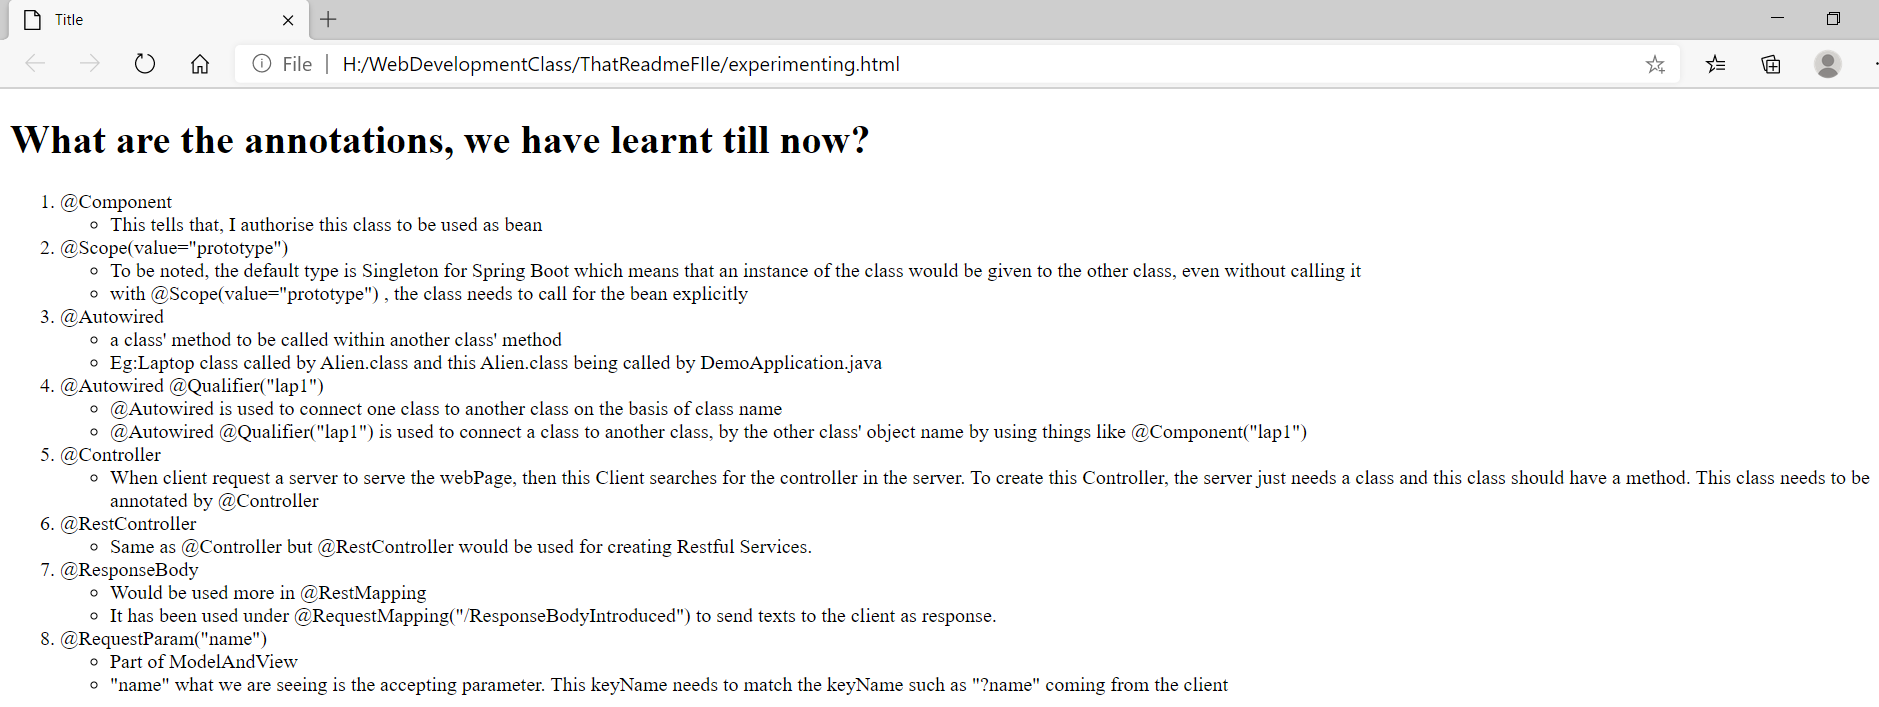
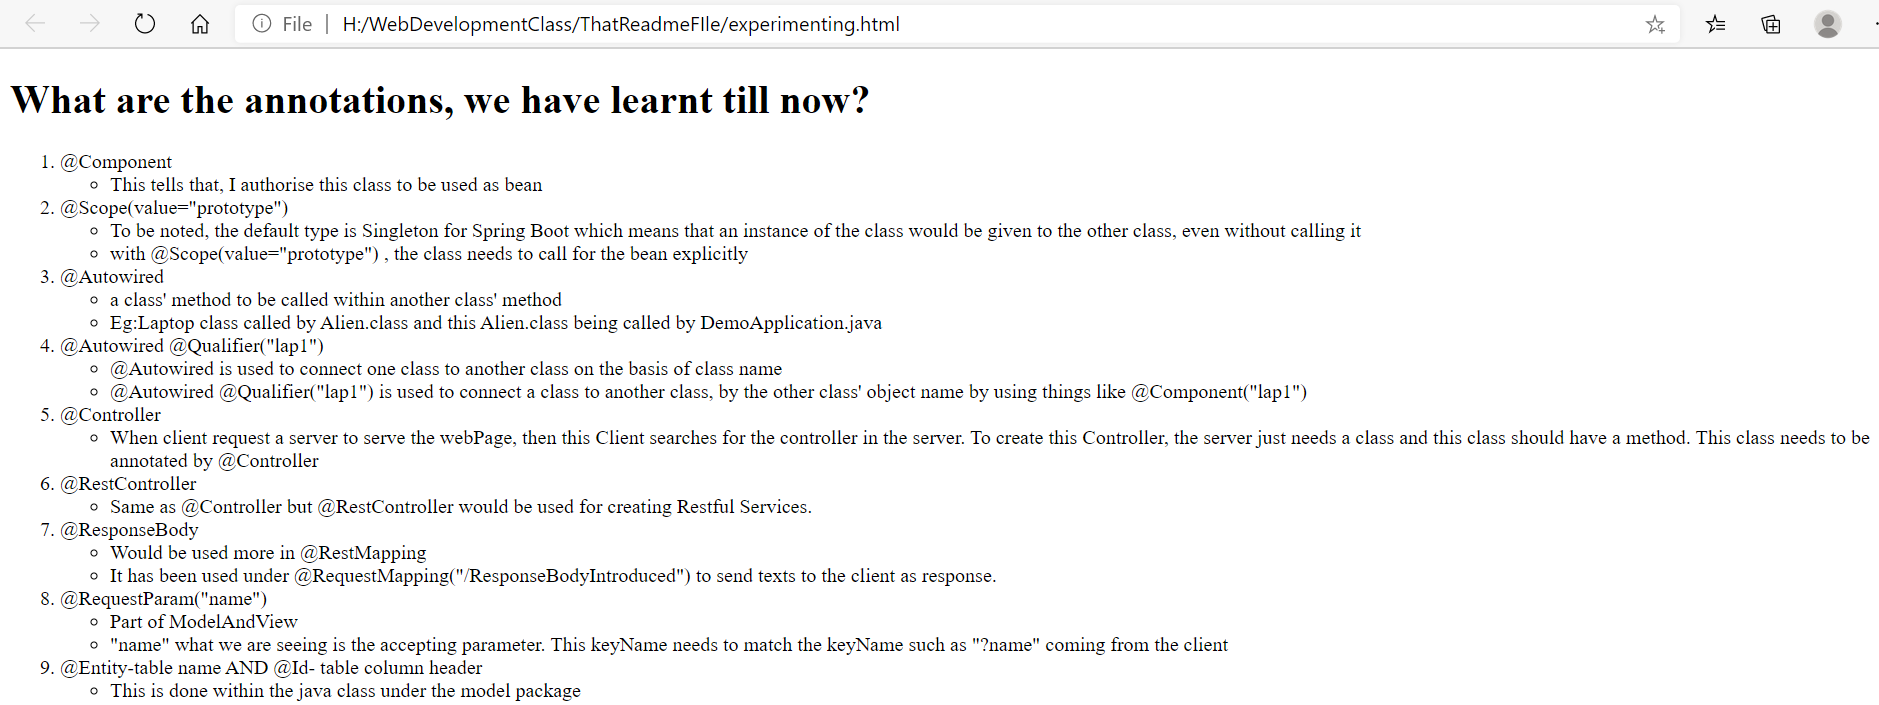
learningDatabaseH2whereinAmStuckAtWhyInterfaceExtendsSpringBootClass&HenceCreatingAnotherReadmeWhichWouldComeUpInTheNextCommit

Changed region(s): [[0.0, 0.0, 1.0, 0.9986]]

diff --git a/experimenting.html b/experimenting.html
@@ -36,7 +36,8 @@
 <li>@RequestParam("name")</li>
     <ul><li>Part of ModelAndView</li>
     <li>"name" what we are seeing is the accepting parameter. This keyName needs to match the keyName such as "?name" coming from the client</li></ul>
-
+<li>@Entity-table name AND @Id- table column header</li>
+    <ul><li>This is done within the java class under the model package</li></ul>
 
 
 </ol>

diff --git a/readme.md b/readme.md
@@ -1145,3 +1145,126 @@ You, yes you, ${maulikObject.memberName} could be of age ${maulikObject.memberAg
 
 - **Note:- Recall the error of localHost, that came up due to silly mistake of not spelling "local", right.. The error should be Whitepage... and not localHost error which might mean that the internet cable has been unplugged**
 
+## Spring Boot JPA MVC H2 Example
+
+- web
+- **jpa**
+- **h2**
+
+- some kind of bug is coming up and hence getting, the below, got to check the **.jsp.jsp bug**
+![jsp.jsp](https://github.com/anindameister/springBoot/blob/main/snaps/16.PNG)
+
+- Moving on, by putting the .jsp file in the default directory and commenting out the application.properties part
+- below are the 3 settings that needs to be put in the application.properties , in order to get started with h2 database
+```
+spring.h2.console.enabled=true
+spring.datasource.platform=h2
+spring.datasource.url=jdbc:h2:mem:aninda
+```
+- **http://localhost:8080/h2-console** to access the console
+- click **Test connection** and we're supposed to get a success message
+- we'll click on connect and proceed.
+
+#### JPA
+- **@Entity** table name
+- **@Id** table data
+- controller/AlienController.java
+```
+@RequestMapping("/learningDatabase")
+    public String learningDatabase(){
+
+        return "learningH2.jsp";
+    }
+```
+- model/Alien.java
+```
+package com.emse.spring.faircorpagain.telusko.model;
+
+import javax.persistence.Entity;
+import javax.persistence.Id;
+
+@Entity
+public class Alien {
+    @Id
+    private int aid;
+    private String aname;
+
+    public int getAid() {
+        return aid;
+    }
+
+    public void setAid(int aid) {
+        this.aid = aid;
+    }
+
+    public String getAname() {
+        return aname;
+    }
+
+    public void setAname(String aname) {
+        this.aname = aname;
+    }
+
+    @Override
+    public String toString() {
+        return "Alien{" +
+                "aid=" + aid +
+                ", aname='" + aname + '\'' +
+                '}';
+    }
+}
+```
+- we have now got a table in the h2 named **ALIEN**
+- we attempted to check the data availability by 
+```
+select * from alien
+```
+- we found none, because with "@Id" we were able to set the fields of the table, let's consider that we're able to give the **column names** to our table. Now, we have got to insert data.
+
+- in order to enter data into the database, we would attempt to create a separate data file under **resources/data.sql**
+- Now, **h2 is an in-memory database**, so if we insert data from h2, then everytime we re-launch it then we'll lose the data..That's why we are keeping our data in a separate file.
+
+- database
+![database console](https://github.com/anindameister/springBoot/blob/main/snaps/17.PNG)
+
+- data.sql
+```
+insert into alien values(101,'Aninda')
+insert into alien values(102,'Arunava')
+```
+#### Now, we want the client to enter data
+- let's look at the .jsp file
+```
+<!DOCTYPE html>
+<html lang="en">
+<head>
+    <meta charset="UTF-8">
+    <title>Title</title>
+</head>
+<body>
+<form action="addAlien">
+    <input type="text" name="aid"><br>
+    <input type="text" name="aname"><br>
+    <input type="submit"><br>
+</form>
+</body>
+</html>
+```
+- we have **form action="addAlien"** but the server is not yet entertaining this action called "addAlien". Let server address this client's action "addAlien"
+- so the server would accept request from http://localhost:8080/addAlien
+and for this we have got @RequestMapping("/addAlien")
+- so whenever the server would receive the request from "/addAlien", it would **first send the request to the controller class which has been annotated by @Controller** and then within the controller class, find out who is accepting the request from client which would be gotten by @RequestMapping("/addAlien") and the corresponding method would handle this request. 
+- The request is coming with some data and this would be handled by **public String addingAlien(Alien alien)**. Let's understand that Alien.class in here is responsible to create the database table along with assigning the table column value. So now, **alien** object would be able to get the data coming from the client in accordance to the parameters mentioned in the Alien class. Now, the question might come up that, how is a newly created object, becomes capable of getting the data so that's exactly the beauty of Spring Boot.
+
+```
+
+@RequestMapping("/addAlien")
+public String addingAlien(Alien alien){
+
+    return "learningH2.jsp";
+}
+````
+
+- Now, server is capable to accept request, accept the data coming with the request, and now the server needs to store the data in the database.
+
+- **Why do we use interface ? It is used to achieve total abstraction. Since java does not support multiple inheritance in case of class, but by using interface it can achieve multiple inheritance . ... The reason is, abstract classes may contain non-final variables, whereas variables in interface are final, public and static**
